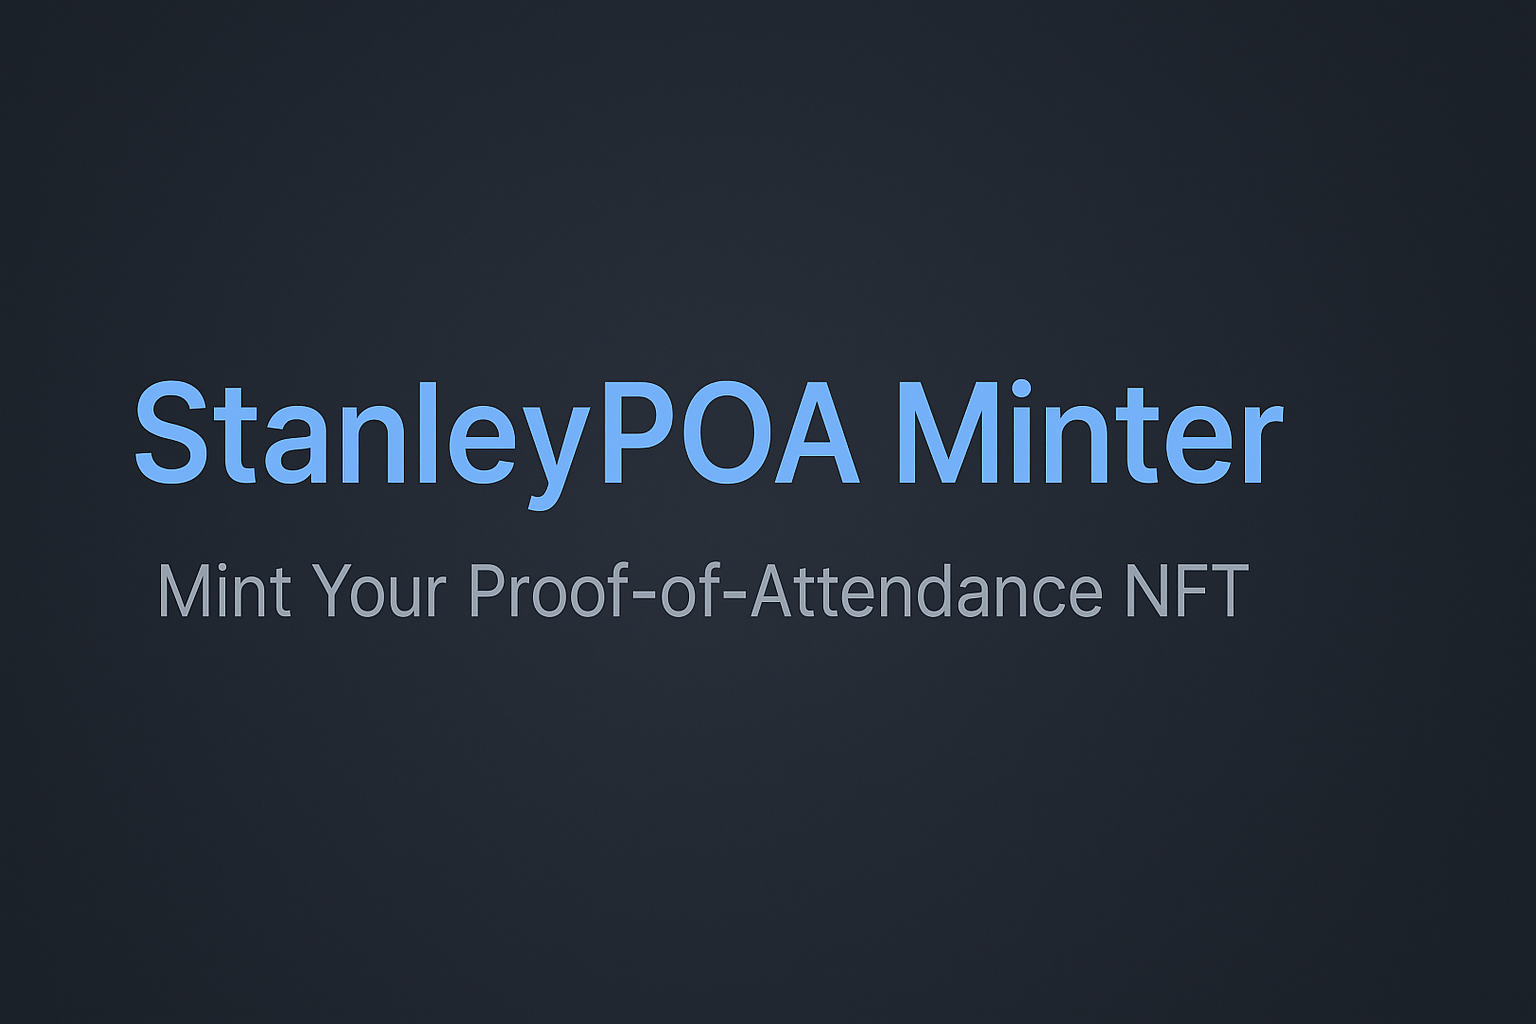
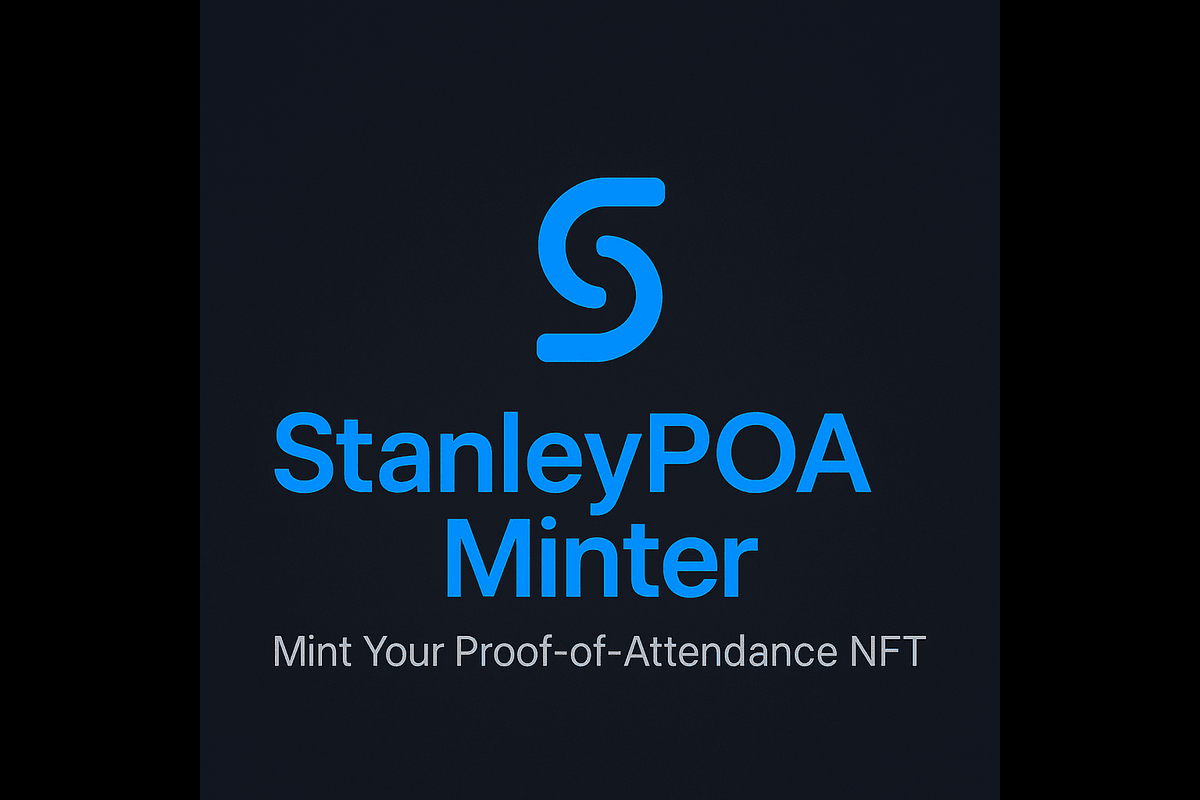
farcaster fixes

diff --git a/src/app/layout.tsx b/src/app/layout.tsx
@@ -3,23 +3,22 @@ import { Inter } from "next/font/google";
 import "./globals.css";
 import { Providers } from './providers';
 
-// The font instance is created with a lowercase 'i'
 const inter = Inter({ subsets: ["latin"] });
 
-// Your Vercel URL
-const siteUrl = process.env.NEXT_PUBLIC_SITE_URL || 'http://localhost:3000';
+const siteUrl = process.env.NEXT_PUBLIC_SITE_URL || 'https://poa-frontend-liard.vercel.app';
+
+const frameMetadata = {
+  'fc:frame': 'vNext',
+  'fc:frame:image': `${siteUrl}/frame.png`,
+  'fc:frame:button:1': 'Mint Your Proof-of-Attendance NFT',
+  'fc:frame:button:1:action': 'link',
+  'fc:frame:button:1:target': siteUrl,
+};
 
 export const metadata: Metadata = {
   title: "StanleyPOA Minter",
   description: "Claim your Proof-of-Attendance NFT on Base",
-  // Adding Farcaster Frame metadata
-  other: {
-    'fc:frame': 'vNext',
-    'fc:frame:image': `${siteUrl}/frame.png`,
-    'fc:frame:button:1': 'Mint Your Proof-of-Attendance NFT',
-    'fc:frame:button:1:action': 'link',
-    'fc:frame:button:1:target': siteUrl,
-  }
+  other: frameMetadata,
 };
 
 export const viewport: Viewport = {
@@ -34,7 +33,6 @@ export default function RootLayout({
 }>) {
   return (
     <html lang="en">
-      {/* The className now correctly uses the lowercase 'inter' variable */}
       <body className={inter.className}>
         <Providers>{children}</Providers>
       </body>